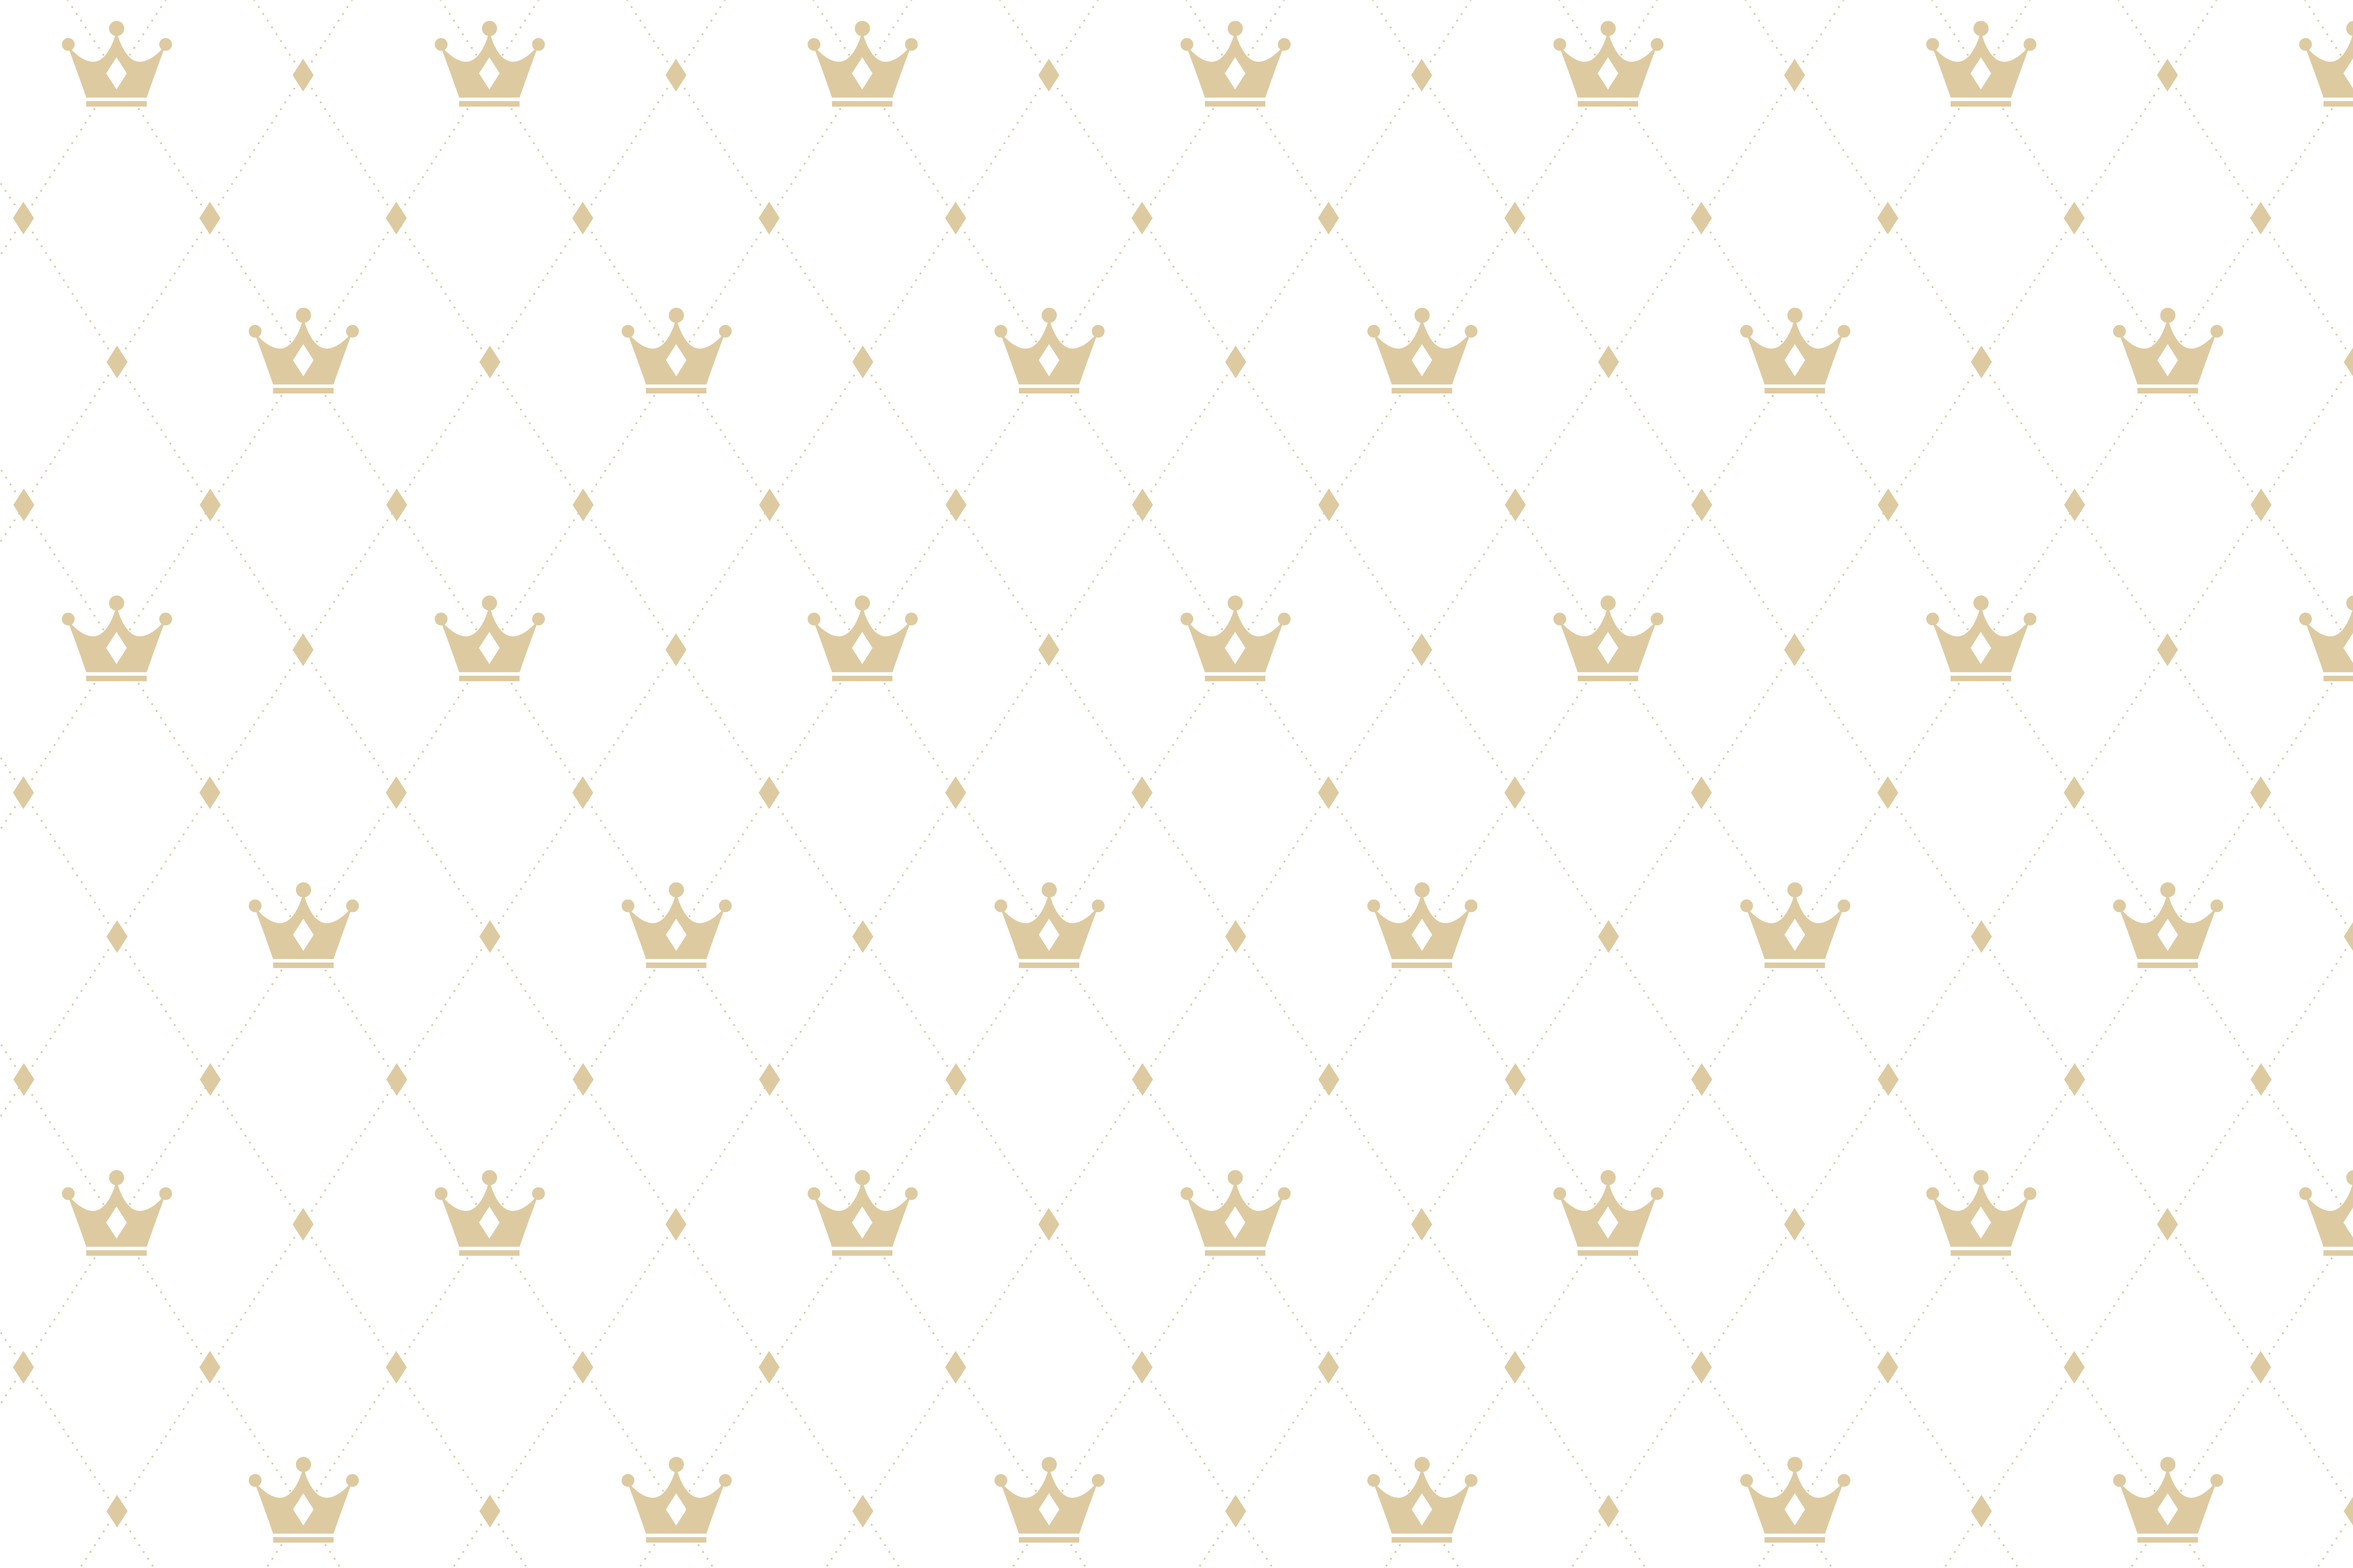
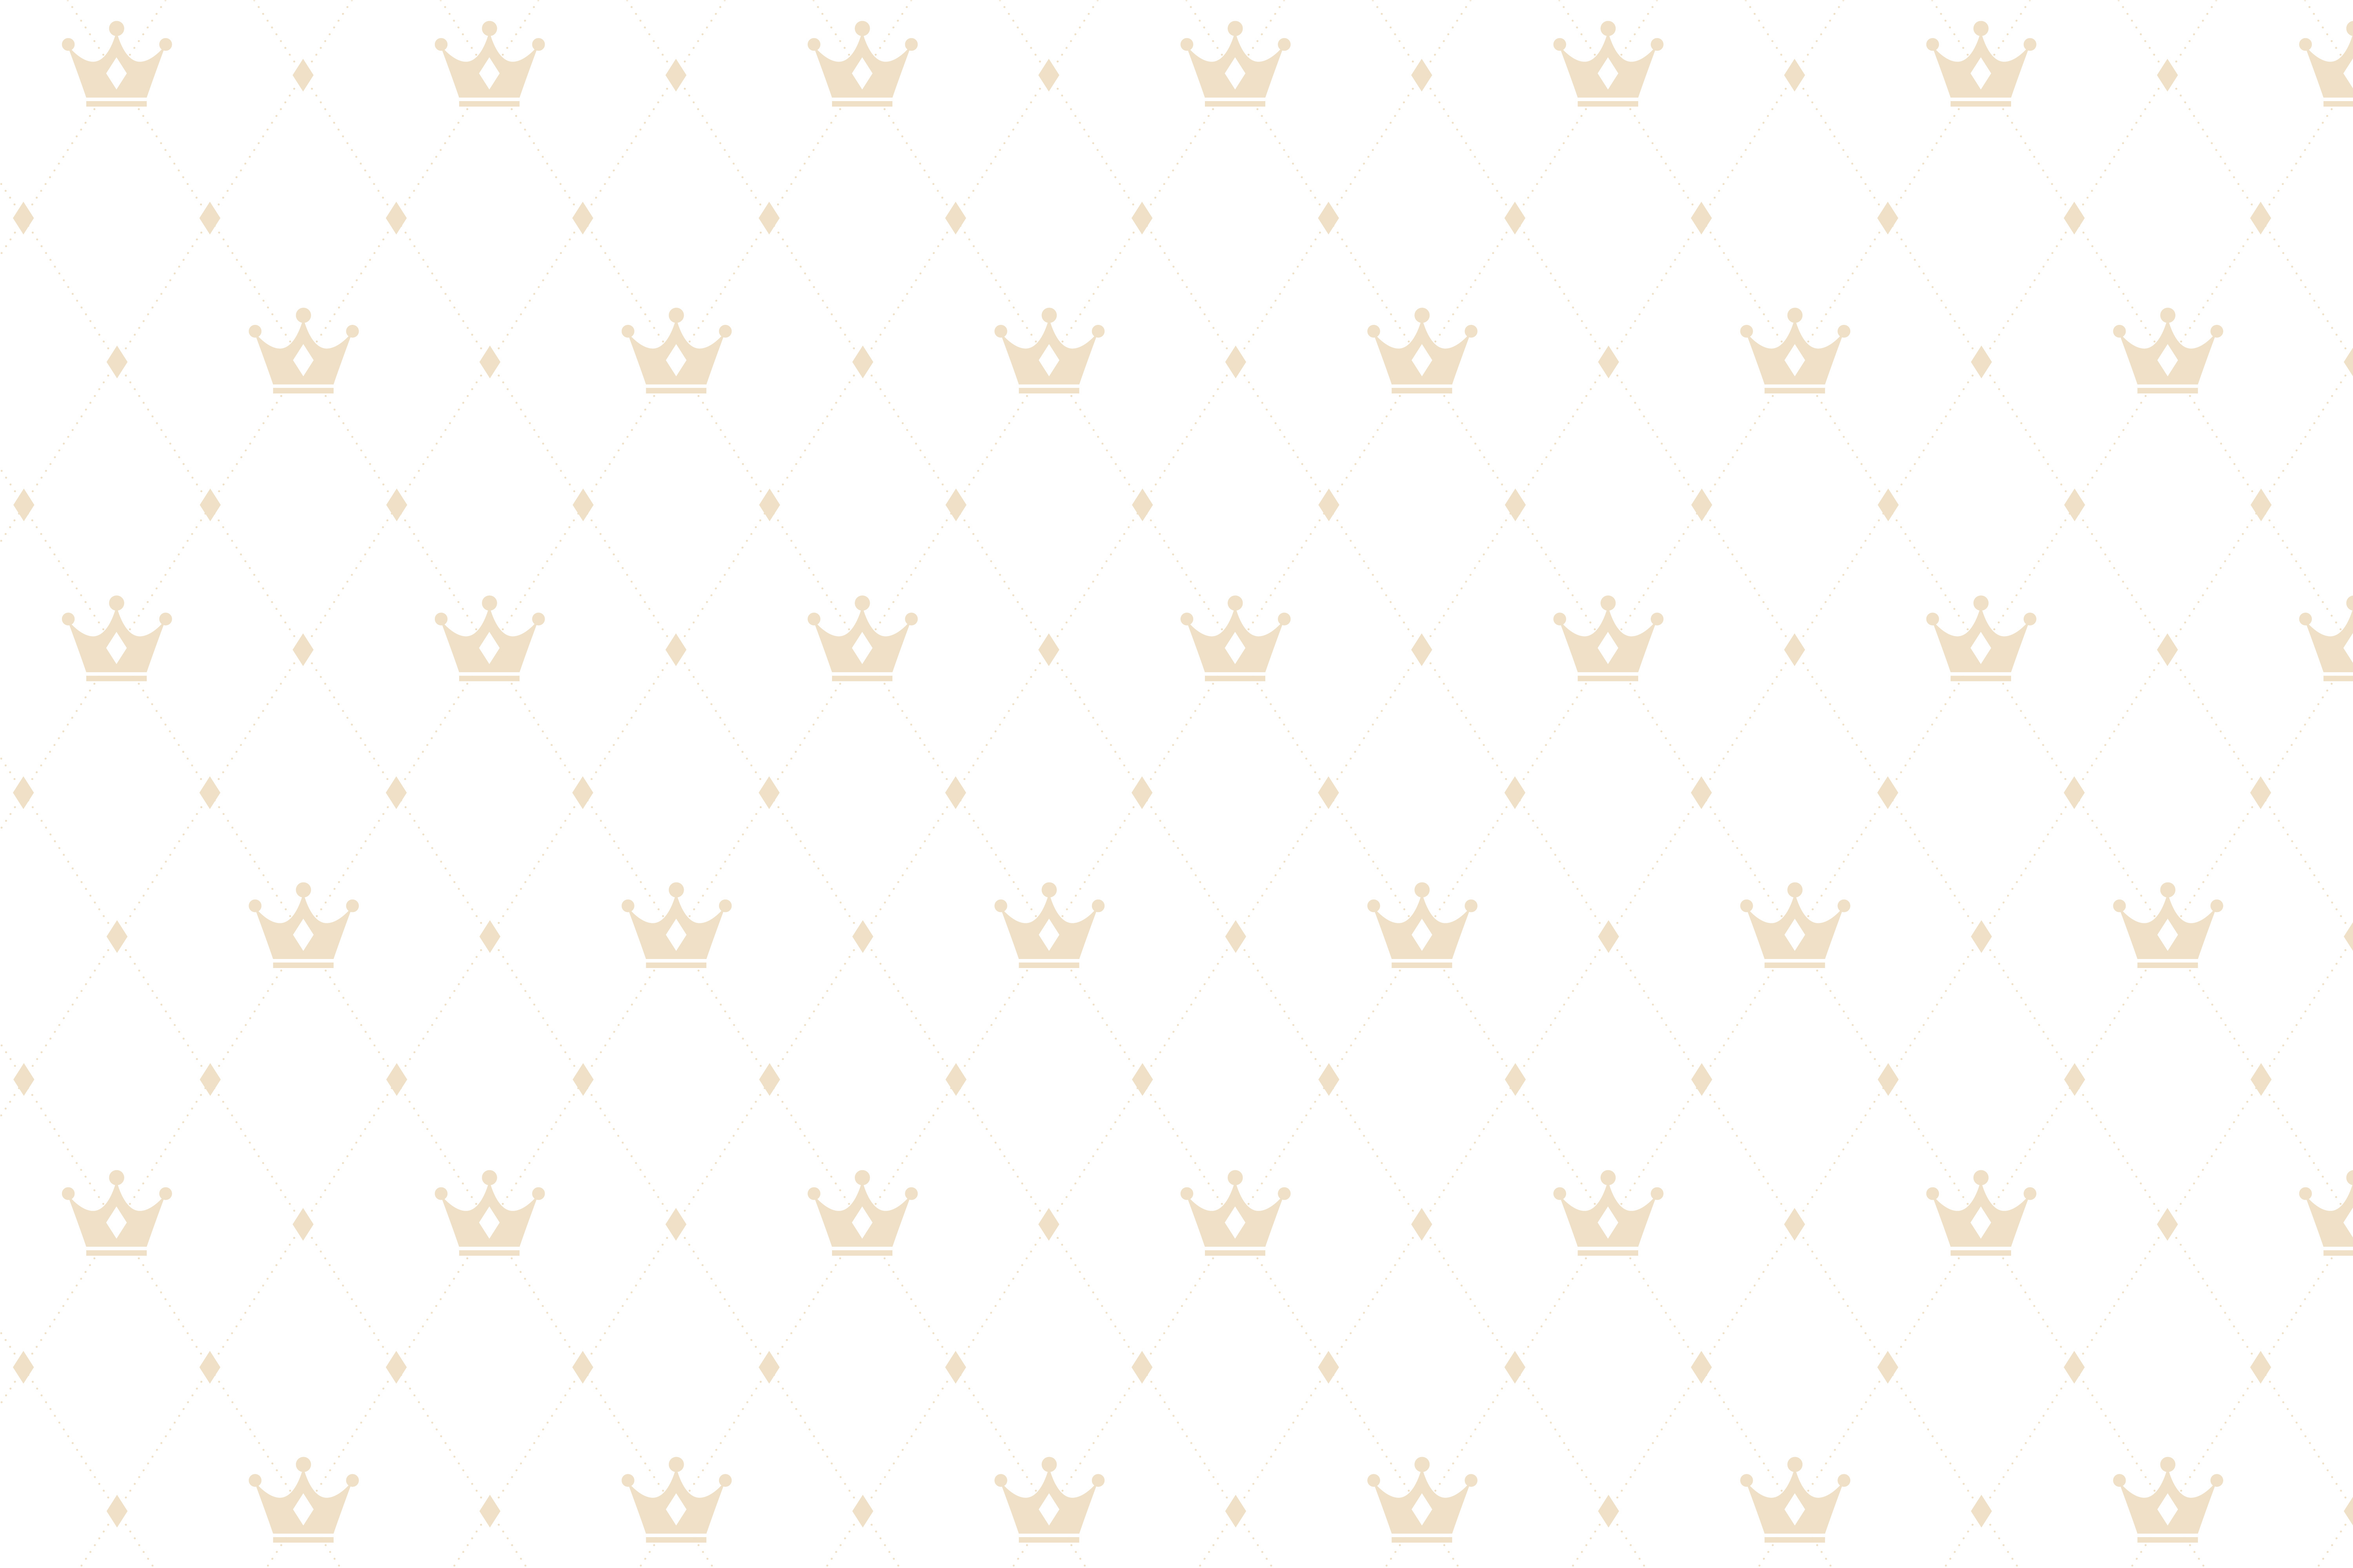
Some changes + fixes - Changed background image (opacity) - Temporarily fixed alt attribute on photo - Added Doer component on the main page - Added Raleway font to the project - Changed the duration of navbar animation - Changed h2 to Typography component to enhance adaptivity

diff --git a/public/index.html b/public/index.html
@@ -8,6 +8,9 @@
     <link rel="stylesheet" href="https://fonts.googleapis.com/css2?family=Philosopher:wght@400;700&display=swap" />
     <link rel="stylesheet" href="https://fonts.googleapis.com/css2?family=Yeseva+One&display=swap" />
     <link rel="stylesheet" href="https://fonts.googleapis.com/css2?family=Playfair+Display:wght@400;700&display=swap" />
+    <link rel="preconnect" href="https://fonts.googleapis.com">
+    <link rel="preconnect" href="https://fonts.gstatic.com" crossorigin>
+    <link href="https://fonts.googleapis.com/css2?family=Raleway&display=swap" rel="stylesheet">
   </head>
   <body>
     <div id="root"></div>

diff --git a/src/components/Doer.jsx b/src/components/Doer.jsx
@@ -17,7 +17,7 @@ const Doer = () => {
                  justifyContent="center"
                  className="descriptDoer">
                 <div className="photoDoerEdging">
-                    <img className="photoDoer" src="https://www.tvr.by/upload/iblock/a13/b6k91b5ew8wt3me9iravpe7ty20tml63.jpg" ></img>
+                    <img className="photoDoer" alt={'doer'} src="https://www.tvr.by/upload/iblock/a13/b6k91b5ew8wt3me9iravpe7ty20tml63.jpg" ></img>
                     {/*<img className="photoDoer" src="{data.imageUrl}" alt="{data.namePerson}"></img>*/}
                 </div>
                 <div className="descriptZone">

diff --git a/src/components/TeamDescription.jsx b/src/components/TeamDescription.jsx
@@ -16,7 +16,9 @@ const TeamDescription = () => {
 
     return (
         <div>
-            <h2 className={"team-h2"}>Команда разработчиков</h2>
+            <Typography variant="h2" className={"team-h2"} style={{fontFamily: 'Raleway'}}>
+                Команда разработчиков
+            </Typography>
             <Grid className={"dev-cards"} container spacing={2} justifyContent="center">
                 {teamMembers.map((member, index) => (
                     <Grid item key={index}>

diff --git a/src/pages/Home.jsx b/src/pages/Home.jsx
@@ -8,6 +8,7 @@ const Home = () => {
         <div>
             <Description />
             <TeamDescription />
+            <Doer />
         </div>
     );
 };

diff --git a/src/components/UI/navbar/Navbar.jsx b/src/components/UI/navbar/Navbar.jsx
@@ -20,7 +20,7 @@ const colors = {
 };
 
 const animationConfig = {
-    duration: 250,
+    duration: 50,
     tension: 120,
     friction: 14,
     mass: 1,

diff --git a/src/css/TeamDescription.css b/src/css/TeamDescription.css
@@ -9,7 +9,6 @@
 
 .team-h2{
     text-align: center;
-    font-size: 3.5rem;
 }
 
 .git-link-text{
